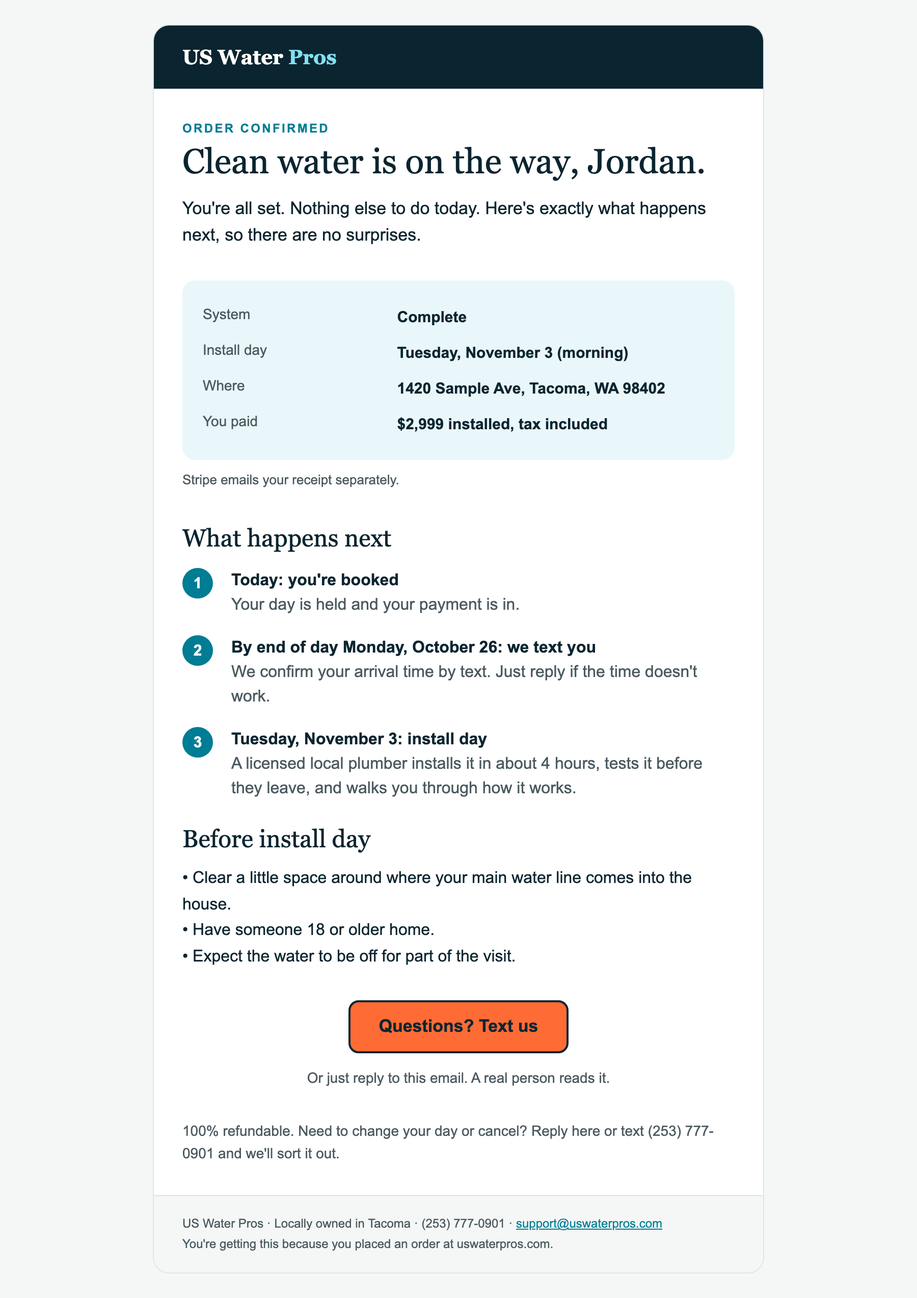
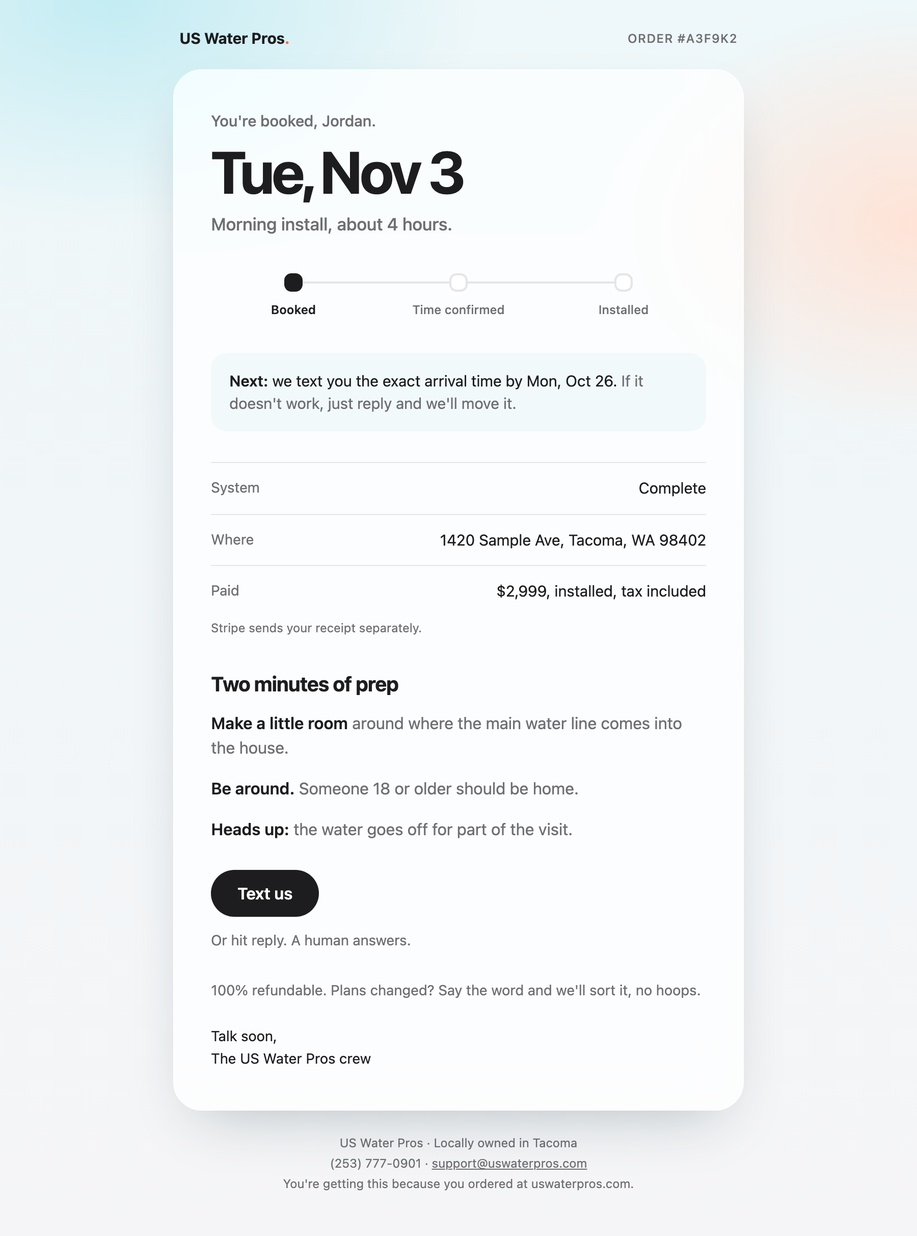
Email 1 redesign: Apple-style order status, big install date, frosted card, dark mode

diff --git a/lib/emails/orderConfirmed.ts b/lib/emails/orderConfirmed.ts
@@ -2,64 +2,88 @@ import { PHONE } from '../constants';
 import { formatUSD } from '../pricing';
 import { STORE } from '../store';
 
-// Email 1 of the customer series: sent the moment a payment clears. Warm, short, one job: say what happens next and what to do before install day.
-// Table layout with inline styles (email clients ignore most CSS). Light background only, so dark-mode clients do not invert it badly.
-// VERIFY before sending to customers: the prep list, "about 4 hours", and the support address.
-export type OrderConfirmedInput = { name: string; systemName: string; installDate: string; window: string; address: string; chargedCents: number; confirmBy: Date; supportEmail: string };
+// Email 1 of the customer series: sent the moment a payment clears.
+// Design: an Apple-style order status. The install day is the hero, a three-dot progress line, a frosted card for the details, one quiet button.
+// Email clients ignore most CSS, so: tables + inline styles, solid fallbacks under every gradient and translucent fill (Apple Mail and iOS show the glass,
+// others show clean white), and a dark-mode block for clients that support it. VERIFY before sending to customers: the prep list and "about 4 hours".
+export type OrderConfirmedInput = { name: string; orderRef: string; systemName: string; installDate: string; window: string; address: string; chargedCents: number; confirmBy: Date; supportEmail: string };
 
 const esc = (s: string) => s.replace(/[&<>"']/g, (c) => ({ '&': '&amp;', '<': '&lt;', '>': '&gt;', '"': '&quot;', "'": '&#39;' })[c]!);
 const TZ = 'America/Los_Angeles';
-const dayLong = (iso: string) => new Date(iso + 'T12:00:00Z').toLocaleDateString('en-US', { weekday: 'long', month: 'long', day: 'numeric', timeZone: 'UTC' });
-const deadlineDay = (d: Date) => d.toLocaleDateString('en-US', { weekday: 'long', month: 'long', day: 'numeric', timeZone: TZ });
+const fmtUTC = (iso: string, o: Intl.DateTimeFormatOptions) => new Date(iso + 'T12:00:00Z').toLocaleDateString('en-US', { ...o, timeZone: 'UTC' });
 export const firstName = (n: string) => { const f = n.trim().split(/\s+/)[0]; return f ? f.replace(/^./, (c) => c.toUpperCase()) : 'there'; };
+export const orderRef = (id: string) => id.replace(/[^0-9a-z]/gi, '').slice(-6).toUpperCase();
 
-const C = { ink: '#0b2530', teal: '#007c94', ice: '#eaf7fa', line: '#dbe6ea', muted: '#4b5a60', orange: '#ff6b35', bg: '#f4f7f6' };
+const F = `-apple-system,BlinkMacSystemFont,'SF Pro Display','SF Pro Text','Helvetica Neue',Helvetica,Arial,sans-serif`;
+const C = { ink: '#1d1d1f', gray: '#6e6e73', line: '#e5e5ea', orange: '#ff6b35' };
 
 export function orderConfirmed(i: OrderConfirmedInput) {
-  const hi = esc(firstName(i.name)), day = dayLong(i.installDate), by = deadlineDay(i.confirmBy);
-  const paid = formatUSD(i.chargedCents / 100);
-  const pre = `Your install is booked for ${day}. Here's what happens next.`;
-  const step = (n: string, h: string, b: string) => `<tr><td valign="top" style="padding:0 14px 18px 0;width:34px"><div style="width:30px;height:30px;border-radius:15px;background:${C.teal};color:#fff;font:700 15px/30px Arial,sans-serif;text-align:center">${n}</div></td><td valign="top" style="padding:0 0 18px 0;font:16px/1.5 Arial,sans-serif;color:${C.ink}"><b>${h}</b><br><span style="color:${C.muted}">${b}</span></td></tr>`;
-  const row = (k: string, v: string) => `<tr><td style="padding:7px 0;font:14px Arial,sans-serif;color:${C.muted};width:38%" valign="top">${k}</td><td style="padding:7px 0;font:15px/1.4 Arial,sans-serif;color:${C.ink}" valign="top"><b>${v}</b></td></tr>`;
-  const html = `<!doctype html><html lang="en"><head><meta charset="utf-8"><meta name="viewport" content="width=device-width,initial-scale=1"><meta name="color-scheme" content="light"><title>You're in. Here's what happens next.</title></head>
-<body style="margin:0;padding:0;background:${C.bg}">
-<div style="display:none;max-height:0;overflow:hidden;opacity:0;color:${C.bg}">${esc(pre)}&#8199;&zwnj;&#8199;&zwnj;&#8199;&zwnj;</div>
-<table role="presentation" width="100%" cellpadding="0" cellspacing="0" style="background:${C.bg}"><tr><td align="center" style="padding:24px 12px">
-<table role="presentation" width="600" cellpadding="0" cellspacing="0" style="width:100%;max-width:600px;background:#fff;border-radius:16px;overflow:hidden;border:1px solid ${C.line}">
-<tr><td style="background:${C.ink};padding:20px 28px;font:700 20px Georgia,serif;color:#fff">US Water <span style="color:#7fe0f2">Pros</span></td></tr>
-<tr><td style="padding:32px 28px 8px">
-<p style="margin:0 0 6px;font:700 12px Arial,sans-serif;letter-spacing:.14em;text-transform:uppercase;color:${C.teal}">Order confirmed</p>
-<h1 style="margin:0 0 14px;font:400 34px/1.15 Georgia,serif;color:${C.ink}">Clean water is on the way, ${hi}.</h1>
-<p style="margin:0 0 22px;font:17px/1.55 Arial,sans-serif;color:${C.ink}">You're all set. Nothing else to do today. Here's exactly what happens next, so there are no surprises.</p>
-</td></tr>
-<tr><td style="padding:0 28px 8px"><table role="presentation" width="100%" cellpadding="0" cellspacing="0" style="background:${C.ice};border-radius:12px"><tr><td style="padding:18px 20px">
-<table role="presentation" width="100%" cellpadding="0" cellspacing="0">${row('System', esc(i.systemName))}${row('Install day', `${esc(day)} (${esc(i.window.toLowerCase())})`)}${row('Where', esc(i.address))}${row('You paid', paid + ' installed, tax included')}</table>
-</td></tr></table>
-<p style="margin:10px 0 0;font:13px/1.5 Arial,sans-serif;color:${C.muted}">Stripe emails your receipt separately.</p></td></tr>
-<tr><td style="padding:26px 28px 0"><h2 style="margin:0 0 16px;font:400 24px Georgia,serif;color:${C.ink}">What happens next</h2>
+  const name = firstName(i.name), ref = esc(i.orderRef);
+  const dayShort = fmtUTC(i.installDate, { weekday: 'short', month: 'short', day: 'numeric' }), dayLong = fmtUTC(i.installDate, { weekday: 'long', month: 'long', day: 'numeric' });
+  const by = i.confirmBy.toLocaleDateString('en-US', { weekday: 'long', month: 'long', day: 'numeric', timeZone: TZ });
+  const byShort = i.confirmBy.toLocaleDateString('en-US', { weekday: 'short', month: 'short', day: 'numeric', timeZone: TZ });
+  const paid = formatUSD(i.chargedCents / 100), win = i.window.toLowerCase();
+  const subject = `You're booked for ${dayShort}`;
+  const pre = `Nothing left to do today. Here's what happens next.`;
+
+  const seg = (cls: string, color: string, show: boolean) => `<td width="50%" valign="middle" style="padding:0">${show ? `<div class="${cls}" style="height:2px;line-height:2px;font-size:0;background:${color}">&nbsp;</div>` : ''}</td>`;
+  const dot = (on: boolean, label: string, first = false, last = false) => `<td align="center" width="33%" style="padding:0">
+<table role="presentation" width="100%" cellpadding="0" cellspacing="0"><tr>
+${seg(on ? 'ln-on' : 'ln', on ? C.ink : C.line, !first)}
+<td style="width:14px;padding:0" align="center"><div class="${on ? 'dot-on' : 'dot'}" style="width:14px;height:14px;border-radius:7px;background:${on ? C.ink : '#fff'};border:2px solid ${on ? C.ink : C.line};font-size:0;line-height:0">&nbsp;</div></td>
+${seg('ln', C.line, !last)}</tr></table>
+<div class="${on ? 't' : 'g'}" style="margin-top:10px;font:${on ? 600 : 500} 12px/1.3 ${F};color:${on ? C.ink : C.gray}">${label}</div></td>`;
+  const row = (k: string, v: string, last = false) => `<tr><td class="hair" style="padding:14px 0;${last ? '' : `border-bottom:1px solid ${C.line};`}font:14px/1.4 ${F};color:${C.gray};width:34%" valign="top"><span class="g">${k}</span></td><td class="hair" style="padding:14px 0;${last ? '' : `border-bottom:1px solid ${C.line};`}font:15px/1.45 ${F};color:${C.ink};text-align:right" valign="top"><span class="t">${v}</span></td></tr>`;
+  const todo = (h: string, b: string) => `<tr><td style="padding:0 0 16px 0;font:16px/1.5 ${F};color:${C.ink}"><b class="t" style="font-weight:600">${h}</b> <span class="g" style="color:${C.gray}">${b}</span></td></tr>`;
+
+  const html = `<!doctype html><html lang="en"><head><meta charset="utf-8"><meta name="viewport" content="width=device-width,initial-scale=1"><meta name="color-scheme" content="light dark"><meta name="supported-color-schemes" content="light dark"><title>${esc(subject)}</title>
+<style>
+@media (prefers-color-scheme: dark){
+  .page{background:#000 !important;background-image:none !important}
+  .glass{background:#1c1c1e !important;border-color:#2c2c2e !important;box-shadow:none !important}
+  .t{color:#f5f5f7 !important} .g{color:#98989f !important}
+  .hair{border-color:#2c2c2e !important} .ln{background:#3a3a3c !important} .ln-on{background:#f5f5f7 !important}
+  .dot{background:#1c1c1e !important;border-color:#3a3a3c !important} .dot-on{background:#f5f5f7 !important;border-color:#f5f5f7 !important}
+  .btn{background:#f5f5f7 !important;color:#1d1d1f !important} .chip{background:#2c2c2e !important}
+}
+@media (max-width:480px){ .pad{padding-left:22px !important;padding-right:22px !important} .big{font-size:48px !important} }
+</style></head>
+<body style="margin:0;padding:0;background:#f5f5f7">
+<div style="display:none;max-height:0;overflow:hidden;opacity:0;color:#f5f5f7">${esc(pre)}&#8199;&zwnj;&#8199;&zwnj;&#8199;&zwnj;&#8199;&zwnj;</div>
+<table role="presentation" class="page" width="100%" cellpadding="0" cellspacing="0" bgcolor="#eef7f9" style="background:#eef7f9;background-image:radial-gradient(520px 320px at 12% 0%,#c3ecf3 0%,rgba(195,236,243,0) 70%),radial-gradient(420px 300px at 100% 18%,#ffe3d6 0%,rgba(255,227,214,0) 70%),linear-gradient(#eef7f9,#f5f5f7)"><tr><td align="center" style="padding:28px 14px 40px">
+<table role="presentation" width="560" cellpadding="0" cellspacing="0" style="width:100%;max-width:560px">
+<tr><td class="pad" style="padding:0 6px 22px"><table role="presentation" width="100%" cellpadding="0" cellspacing="0"><tr>
+<td style="font:700 15px ${F};letter-spacing:-.01em;color:${C.ink}"><span class="t">US Water Pros</span><span style="color:${C.orange}">.</span></td>
+<td align="right" style="font:500 12px ${F};letter-spacing:.06em;color:${C.gray}"><span class="g">ORDER #${ref}</span></td></tr></table></td></tr>
+
+<tr><td class="glass" bgcolor="#ffffff" style="background:#ffffff;background:rgba(255,255,255,.78);-webkit-backdrop-filter:saturate(180%) blur(24px);backdrop-filter:saturate(180%) blur(24px);border:1px solid #ffffff;border-radius:28px;box-shadow:0 24px 60px -24px rgba(11,37,48,.28)">
 <table role="presentation" width="100%" cellpadding="0" cellspacing="0">
-${step('1', 'Today: you\'re booked', 'Your day is held and your payment is in.')}
-${step('2', `By end of day ${esc(by)}: we text you`, 'We confirm your arrival time by text. Just reply if the time doesn\'t work.')}
-${step('3', `${esc(day)}: install day`, 'A licensed local plumber installs it in about 4 hours, tests it before they leave, and walks you through how it works.')}
+<tr><td class="pad" style="padding:40px 36px 6px">
+<div class="g" style="font:500 15px/1.3 ${F};color:${C.gray}">You're booked, ${esc(name)}.</div>
+<div class="big t" style="margin:10px 0 0;font:700 58px/1 ${F};letter-spacing:-.045em;color:${C.ink}">${esc(dayShort)}</div>
+<div class="g" style="margin:12px 0 0;font:500 17px/1.4 ${F};color:${C.gray}">${esc(win.charAt(0).toUpperCase() + win.slice(1))} install, about 4 hours.</div>
+</td></tr>
+<tr><td class="pad" style="padding:30px 36px 8px"><table role="presentation" width="100%" cellpadding="0" cellspacing="0"><tr>${dot(true, 'Booked', true)}${dot(false, 'Time confirmed')}${dot(false, 'Installed', false, true)}</tr></table></td></tr>
+<tr><td class="pad" style="padding:26px 36px 0"><table role="presentation" width="100%" cellpadding="0" cellspacing="0" class="chip" bgcolor="#f2f9fb" style="background:#f2f9fb;border-radius:16px"><tr><td style="padding:16px 18px;font:15px/1.5 ${F};color:${C.ink}"><b class="t" style="font-weight:600">Next:</b> <span class="t">we text you the exact arrival time by ${esc(byShort)}.</span> <span class="g" style="color:${C.gray}">If it doesn't work, just reply and we'll move it.</span></td></tr></table></td></tr>
+<tr><td class="pad" style="padding:30px 36px 0"><table role="presentation" width="100%" cellpadding="0" cellspacing="0" class="hair" style="border-top:1px solid ${C.line}">${row('System', esc(i.systemName))}${row('Where', esc(i.address))}${row('Paid', `${paid}, installed, tax included`, true)}</table>
+<div class="g" style="padding:2px 0 0;font:12px/1.5 ${F};color:${C.gray}">Stripe sends your receipt separately.</div></td></tr>
+<tr><td class="pad" style="padding:34px 36px 0"><div class="t" style="margin:0 0 14px;font:700 20px/1.2 ${F};letter-spacing:-.02em;color:${C.ink}">Two minutes of prep</div>
+<table role="presentation" width="100%" cellpadding="0" cellspacing="0">${todo('Make a little room', 'around where the main water line comes into the house.')}${todo('Be around.', 'Someone 18 or older should be home.')}${todo('Heads up:', 'the water goes off for part of the visit.')}</table></td></tr>
+<tr><td class="pad" align="left" style="padding:12px 36px 0"><a class="btn" href="sms:+12537770901" style="display:inline-block;background:${C.ink};color:#ffffff;font:600 16px ${F};text-decoration:none;padding:14px 26px;border-radius:980px">Text us</a>
+<div class="g" style="margin:14px 0 0;font:14px ${F};color:${C.gray}">Or hit reply. A human answers.</div></td></tr>
+<tr><td class="pad" style="padding:30px 36px 38px"><div class="g" style="font:14px/1.6 ${F};color:${C.gray}">${esc(STORE.refund)} Plans changed? Say the word and we'll sort it, no hoops.<br><br><span class="t" style="color:${C.ink}">Talk soon,<br>The US Water Pros crew</span></div></td></tr>
 </table></td></tr>
-<tr><td style="padding:6px 28px 0"><h2 style="margin:0 0 12px;font:400 24px Georgia,serif;color:${C.ink}">Before install day</h2>
-<p style="margin:0;font:16px/1.6 Arial,sans-serif;color:${C.ink}">&bull; Clear a little space around where your main water line comes into the house.<br>&bull; Have someone 18 or older home.<br>&bull; Expect the water to be off for part of the visit.</p></td></tr>
-<tr><td align="center" style="padding:30px 28px 8px"><a href="sms:+12537770901" style="display:inline-block;background:${C.orange};color:${C.ink};font:700 17px Arial,sans-serif;text-decoration:none;padding:14px 28px;border-radius:10px;border:2px solid ${C.ink}">Questions? Text us</a>
-<p style="margin:14px 0 0;font:14px/1.5 Arial,sans-serif;color:${C.muted}">Or just reply to this email. A real person reads it.</p></td></tr>
-<tr><td style="padding:22px 28px 30px"><p style="margin:0;font:14px/1.6 Arial,sans-serif;color:${C.muted}">${esc(STORE.refund)} Need to change your day or cancel? Reply here or text ${esc(PHONE)} and we'll sort it out.</p></td></tr>
-<tr><td style="background:${C.bg};padding:18px 28px;border-top:1px solid ${C.line};font:12px/1.6 Arial,sans-serif;color:${C.muted}">US Water Pros &middot; ${esc(STORE.local)} &middot; ${esc(PHONE)} &middot; <a href="mailto:${esc(i.supportEmail)}" style="color:${C.teal}">${esc(i.supportEmail)}</a><br>You're getting this because you placed an order at uswaterpros.com.</td></tr>
+
+<tr><td class="pad" style="padding:22px 12px 0;font:12px/1.7 ${F};color:${C.gray};text-align:center"><span class="g">US Water Pros &middot; ${esc(STORE.local)}<br>${esc(PHONE)} &middot; <a href="mailto:${esc(i.supportEmail)}" style="color:${C.gray}">${esc(i.supportEmail)}</a><br>You're getting this because you ordered at uswaterpros.com.</span></td></tr>
 </table></td></tr></table></body></html>`;
+
   const text = [
-    `Clean water is on the way, ${firstName(i.name)}.`, '',
-    `You're all set. Nothing else to do today. Stripe emails your receipt separately.`, '',
-    `System: ${i.systemName}`, `Install day: ${day} (${i.window.toLowerCase()})`, `Where: ${i.address}`, `You paid: ${paid} installed, tax included`, '',
-    'WHAT HAPPENS NEXT',
-    `1. Today: you're booked. Your day is held and your payment is in.`,
-    `2. By end of day ${by}: we text you to confirm your arrival time. Reply if it doesn't work.`,
-    `3. ${day}: a licensed local plumber installs it in about 4 hours, tests it, and walks you through it.`, '',
-    'BEFORE INSTALL DAY', '- Clear a little space around where your main water line comes into the house.', '- Have someone 18 or older home.', '- Expect the water to be off for part of the visit.', '',
-    `${STORE.refund} Need to change your day or cancel? Reply to this email or text ${PHONE}.`, '',
-    `US Water Pros, ${STORE.local}. ${i.supportEmail}`,
+    `You're booked, ${name}.`, '', `${dayLong} · ${win} install, about 4 hours.`, '',
+    `NEXT: we text you the exact arrival time by end of day ${by}. If it doesn't work, just reply and we'll move it.`, '',
+    `Order #${i.orderRef}`, `System: ${i.systemName}`, `Where: ${i.address}`, `Paid: ${paid}, installed, tax included (Stripe sends your receipt separately)`, '',
+    'TWO MINUTES OF PREP', '- Make a little room around where the main water line comes into the house.', '- Be around. Someone 18 or older should be home.', '- Heads up: the water goes off for part of the visit.', '',
+    `Questions? Text ${PHONE} or just reply. A human answers.`, `${STORE.refund} Plans changed? Say the word and we'll sort it.`, '',
+    'Talk soon,', 'The US Water Pros crew', '', `${STORE.local} · ${i.supportEmail}`,
   ].join('\n');
-  return { subject: "You're in. Here's what happens next.", html, text };
+  return { subject, html, text };
 }

diff --git a/docs/email-previews/1-order-confirmed.html b/docs/email-previews/1-order-confirmed.html
@@ -1,28 +1,55 @@
-<!doctype html><html lang="en"><head><meta charset="utf-8"><meta name="viewport" content="width=device-width,initial-scale=1"><meta name="color-scheme" content="light"><title>You're in. Here's what happens next.</title></head>
-<body style="margin:0;padding:0;background:#f4f7f6">
-<div style="display:none;max-height:0;overflow:hidden;opacity:0;color:#f4f7f6">Your install is booked for Tuesday, November 3. Here&#39;s what happens next.&#8199;&zwnj;&#8199;&zwnj;&#8199;&zwnj;</div>
-<table role="presentation" width="100%" cellpadding="0" cellspacing="0" style="background:#f4f7f6"><tr><td align="center" style="padding:24px 12px">
-<table role="presentation" width="600" cellpadding="0" cellspacing="0" style="width:100%;max-width:600px;background:#fff;border-radius:16px;overflow:hidden;border:1px solid #dbe6ea">
-<tr><td style="background:#0b2530;padding:20px 28px;font:700 20px Georgia,serif;color:#fff">US Water <span style="color:#7fe0f2">Pros</span></td></tr>
-<tr><td style="padding:32px 28px 8px">
-<p style="margin:0 0 6px;font:700 12px Arial,sans-serif;letter-spacing:.14em;text-transform:uppercase;color:#007c94">Order confirmed</p>
-<h1 style="margin:0 0 14px;font:400 34px/1.15 Georgia,serif;color:#0b2530">Clean water is on the way, Jordan.</h1>
-<p style="margin:0 0 22px;font:17px/1.55 Arial,sans-serif;color:#0b2530">You're all set. Nothing else to do today. Here's exactly what happens next, so there are no surprises.</p>
-</td></tr>
-<tr><td style="padding:0 28px 8px"><table role="presentation" width="100%" cellpadding="0" cellspacing="0" style="background:#eaf7fa;border-radius:12px"><tr><td style="padding:18px 20px">
-<table role="presentation" width="100%" cellpadding="0" cellspacing="0"><tr><td style="padding:7px 0;font:14px Arial,sans-serif;color:#4b5a60;width:38%" valign="top">System</td><td style="padding:7px 0;font:15px/1.4 Arial,sans-serif;color:#0b2530" valign="top"><b>Complete</b></td></tr><tr><td style="padding:7px 0;font:14px Arial,sans-serif;color:#4b5a60;width:38%" valign="top">Install day</td><td style="padding:7px 0;font:15px/1.4 Arial,sans-serif;color:#0b2530" valign="top"><b>Tuesday, November 3 (morning)</b></td></tr><tr><td style="padding:7px 0;font:14px Arial,sans-serif;color:#4b5a60;width:38%" valign="top">Where</td><td style="padding:7px 0;font:15px/1.4 Arial,sans-serif;color:#0b2530" valign="top"><b>1420 Sample Ave, Tacoma, WA 98402</b></td></tr><tr><td style="padding:7px 0;font:14px Arial,sans-serif;color:#4b5a60;width:38%" valign="top">You paid</td><td style="padding:7px 0;font:15px/1.4 Arial,sans-serif;color:#0b2530" valign="top"><b>$2,999 installed, tax included</b></td></tr></table>
-</td></tr></table>
-<p style="margin:10px 0 0;font:13px/1.5 Arial,sans-serif;color:#4b5a60">Stripe emails your receipt separately.</p></td></tr>
-<tr><td style="padding:26px 28px 0"><h2 style="margin:0 0 16px;font:400 24px Georgia,serif;color:#0b2530">What happens next</h2>
+<!doctype html><html lang="en"><head><meta charset="utf-8"><meta name="viewport" content="width=device-width,initial-scale=1"><meta name="color-scheme" content="light dark"><meta name="supported-color-schemes" content="light dark"><title>You&#39;re booked for Tue, Nov 3</title>
+<style>
+@media (prefers-color-scheme: dark){
+  .page{background:#000 !important;background-image:none !important}
+  .glass{background:#1c1c1e !important;border-color:#2c2c2e !important;box-shadow:none !important}
+  .t{color:#f5f5f7 !important} .g{color:#98989f !important}
+  .hair{border-color:#2c2c2e !important} .ln{background:#3a3a3c !important} .ln-on{background:#f5f5f7 !important}
+  .dot{background:#1c1c1e !important;border-color:#3a3a3c !important} .dot-on{background:#f5f5f7 !important;border-color:#f5f5f7 !important}
+  .btn{background:#f5f5f7 !important;color:#1d1d1f !important} .chip{background:#2c2c2e !important}
+}
+@media (max-width:480px){ .pad{padding-left:22px !important;padding-right:22px !important} .big{font-size:48px !important} }
+</style></head>
+<body style="margin:0;padding:0;background:#f5f5f7">
+<div style="display:none;max-height:0;overflow:hidden;opacity:0;color:#f5f5f7">Nothing left to do today. Here&#39;s what happens next.&#8199;&zwnj;&#8199;&zwnj;&#8199;&zwnj;&#8199;&zwnj;</div>
+<table role="presentation" class="page" width="100%" cellpadding="0" cellspacing="0" bgcolor="#eef7f9" style="background:#eef7f9;background-image:radial-gradient(520px 320px at 12% 0%,#c3ecf3 0%,rgba(195,236,243,0) 70%),radial-gradient(420px 300px at 100% 18%,#ffe3d6 0%,rgba(255,227,214,0) 70%),linear-gradient(#eef7f9,#f5f5f7)"><tr><td align="center" style="padding:28px 14px 40px">
+<table role="presentation" width="560" cellpadding="0" cellspacing="0" style="width:100%;max-width:560px">
+<tr><td class="pad" style="padding:0 6px 22px"><table role="presentation" width="100%" cellpadding="0" cellspacing="0"><tr>
+<td style="font:700 15px -apple-system,BlinkMacSystemFont,'SF Pro Display','SF Pro Text','Helvetica Neue',Helvetica,Arial,sans-serif;letter-spacing:-.01em;color:#1d1d1f"><span class="t">US Water Pros</span><span style="color:#ff6b35">.</span></td>
+<td align="right" style="font:500 12px -apple-system,BlinkMacSystemFont,'SF Pro Display','SF Pro Text','Helvetica Neue',Helvetica,Arial,sans-serif;letter-spacing:.06em;color:#6e6e73"><span class="g">ORDER #A3F9K2</span></td></tr></table></td></tr>
+
+<tr><td class="glass" bgcolor="#ffffff" style="background:#ffffff;background:rgba(255,255,255,.78);-webkit-backdrop-filter:saturate(180%) blur(24px);backdrop-filter:saturate(180%) blur(24px);border:1px solid #ffffff;border-radius:28px;box-shadow:0 24px 60px -24px rgba(11,37,48,.28)">
 <table role="presentation" width="100%" cellpadding="0" cellspacing="0">
-<tr><td valign="top" style="padding:0 14px 18px 0;width:34px"><div style="width:30px;height:30px;border-radius:15px;background:#007c94;color:#fff;font:700 15px/30px Arial,sans-serif;text-align:center">1</div></td><td valign="top" style="padding:0 0 18px 0;font:16px/1.5 Arial,sans-serif;color:#0b2530"><b>Today: you're booked</b><br><span style="color:#4b5a60">Your day is held and your payment is in.</span></td></tr>
-<tr><td valign="top" style="padding:0 14px 18px 0;width:34px"><div style="width:30px;height:30px;border-radius:15px;background:#007c94;color:#fff;font:700 15px/30px Arial,sans-serif;text-align:center">2</div></td><td valign="top" style="padding:0 0 18px 0;font:16px/1.5 Arial,sans-serif;color:#0b2530"><b>By end of day Monday, October 26: we text you</b><br><span style="color:#4b5a60">We confirm your arrival time by text. Just reply if the time doesn't work.</span></td></tr>
-<tr><td valign="top" style="padding:0 14px 18px 0;width:34px"><div style="width:30px;height:30px;border-radius:15px;background:#007c94;color:#fff;font:700 15px/30px Arial,sans-serif;text-align:center">3</div></td><td valign="top" style="padding:0 0 18px 0;font:16px/1.5 Arial,sans-serif;color:#0b2530"><b>Tuesday, November 3: install day</b><br><span style="color:#4b5a60">A licensed local plumber installs it in about 4 hours, tests it before they leave, and walks you through how it works.</span></td></tr>
+<tr><td class="pad" style="padding:40px 36px 6px">
+<div class="g" style="font:500 15px/1.3 -apple-system,BlinkMacSystemFont,'SF Pro Display','SF Pro Text','Helvetica Neue',Helvetica,Arial,sans-serif;color:#6e6e73">You're booked, Jordan.</div>
+<div class="big t" style="margin:10px 0 0;font:700 58px/1 -apple-system,BlinkMacSystemFont,'SF Pro Display','SF Pro Text','Helvetica Neue',Helvetica,Arial,sans-serif;letter-spacing:-.045em;color:#1d1d1f">Tue, Nov 3</div>
+<div class="g" style="margin:12px 0 0;font:500 17px/1.4 -apple-system,BlinkMacSystemFont,'SF Pro Display','SF Pro Text','Helvetica Neue',Helvetica,Arial,sans-serif;color:#6e6e73">Morning install, about 4 hours.</div>
+</td></tr>
+<tr><td class="pad" style="padding:30px 36px 8px"><table role="presentation" width="100%" cellpadding="0" cellspacing="0"><tr><td align="center" width="33%" style="padding:0">
+<table role="presentation" width="100%" cellpadding="0" cellspacing="0"><tr>
+<td width="50%" valign="middle" style="padding:0"></td>
+<td style="width:14px;padding:0" align="center"><div class="dot-on" style="width:14px;height:14px;border-radius:7px;background:#1d1d1f;border:2px solid #1d1d1f;font-size:0;line-height:0">&nbsp;</div></td>
+<td width="50%" valign="middle" style="padding:0"><div class="ln" style="height:2px;line-height:2px;font-size:0;background:#e5e5ea">&nbsp;</div></td></tr></table>
+<div class="t" style="margin-top:10px;font:600 12px/1.3 -apple-system,BlinkMacSystemFont,'SF Pro Display','SF Pro Text','Helvetica Neue',Helvetica,Arial,sans-serif;color:#1d1d1f">Booked</div></td><td align="center" width="33%" style="padding:0">
+<table role="presentation" width="100%" cellpadding="0" cellspacing="0"><tr>
+<td width="50%" valign="middle" style="padding:0"><div class="ln" style="height:2px;line-height:2px;font-size:0;background:#e5e5ea">&nbsp;</div></td>
+<td style="width:14px;padding:0" align="center"><div class="dot" style="width:14px;height:14px;border-radius:7px;background:#fff;border:2px solid #e5e5ea;font-size:0;line-height:0">&nbsp;</div></td>
+<td width="50%" valign="middle" style="padding:0"><div class="ln" style="height:2px;line-height:2px;font-size:0;background:#e5e5ea">&nbsp;</div></td></tr></table>
+<div class="g" style="margin-top:10px;font:500 12px/1.3 -apple-system,BlinkMacSystemFont,'SF Pro Display','SF Pro Text','Helvetica Neue',Helvetica,Arial,sans-serif;color:#6e6e73">Time confirmed</div></td><td align="center" width="33%" style="padding:0">
+<table role="presentation" width="100%" cellpadding="0" cellspacing="0"><tr>
+<td width="50%" valign="middle" style="padding:0"><div class="ln" style="height:2px;line-height:2px;font-size:0;background:#e5e5ea">&nbsp;</div></td>
+<td style="width:14px;padding:0" align="center"><div class="dot" style="width:14px;height:14px;border-radius:7px;background:#fff;border:2px solid #e5e5ea;font-size:0;line-height:0">&nbsp;</div></td>
+<td width="50%" valign="middle" style="padding:0"></td></tr></table>
+<div class="g" style="margin-top:10px;font:500 12px/1.3 -apple-system,BlinkMacSystemFont,'SF Pro Display','SF Pro Text','Helvetica Neue',Helvetica,Arial,sans-serif;color:#6e6e73">Installed</div></td></tr></table></td></tr>
+<tr><td class="pad" style="padding:26px 36px 0"><table role="presentation" width="100%" cellpadding="0" cellspacing="0" class="chip" bgcolor="#f2f9fb" style="background:#f2f9fb;border-radius:16px"><tr><td style="padding:16px 18px;font:15px/1.5 -apple-system,BlinkMacSystemFont,'SF Pro Display','SF Pro Text','Helvetica Neue',Helvetica,Arial,sans-serif;color:#1d1d1f"><b class="t" style="font-weight:600">Next:</b> <span class="t">we text you the exact arrival time by Mon, Oct 26.</span> <span class="g" style="color:#6e6e73">If it doesn't work, just reply and we'll move it.</span></td></tr></table></td></tr>
+<tr><td class="pad" style="padding:30px 36px 0"><table role="presentation" width="100%" cellpadding="0" cellspacing="0" class="hair" style="border-top:1px solid #e5e5ea"><tr><td class="hair" style="padding:14px 0;border-bottom:1px solid #e5e5ea;font:14px/1.4 -apple-system,BlinkMacSystemFont,'SF Pro Display','SF Pro Text','Helvetica Neue',Helvetica,Arial,sans-serif;color:#6e6e73;width:34%" valign="top"><span class="g">System</span></td><td class="hair" style="padding:14px 0;border-bottom:1px solid #e5e5ea;font:15px/1.45 -apple-system,BlinkMacSystemFont,'SF Pro Display','SF Pro Text','Helvetica Neue',Helvetica,Arial,sans-serif;color:#1d1d1f;text-align:right" valign="top"><span class="t">Complete</span></td></tr><tr><td class="hair" style="padding:14px 0;border-bottom:1px solid #e5e5ea;font:14px/1.4 -apple-system,BlinkMacSystemFont,'SF Pro Display','SF Pro Text','Helvetica Neue',Helvetica,Arial,sans-serif;color:#6e6e73;width:34%" valign="top"><span class="g">Where</span></td><td class="hair" style="padding:14px 0;border-bottom:1px solid #e5e5ea;font:15px/1.45 -apple-system,BlinkMacSystemFont,'SF Pro Display','SF Pro Text','Helvetica Neue',Helvetica,Arial,sans-serif;color:#1d1d1f;text-align:right" valign="top"><span class="t">1420 Sample Ave, Tacoma, WA 98402</span></td></tr><tr><td class="hair" style="padding:14px 0;font:14px/1.4 -apple-system,BlinkMacSystemFont,'SF Pro Display','SF Pro Text','Helvetica Neue',Helvetica,Arial,sans-serif;color:#6e6e73;width:34%" valign="top"><span class="g">Paid</span></td><td class="hair" style="padding:14px 0;font:15px/1.45 -apple-system,BlinkMacSystemFont,'SF Pro Display','SF Pro Text','Helvetica Neue',Helvetica,Arial,sans-serif;color:#1d1d1f;text-align:right" valign="top"><span class="t">$2,999, installed, tax included</span></td></tr></table>
+<div class="g" style="padding:2px 0 0;font:12px/1.5 -apple-system,BlinkMacSystemFont,'SF Pro Display','SF Pro Text','Helvetica Neue',Helvetica,Arial,sans-serif;color:#6e6e73">Stripe sends your receipt separately.</div></td></tr>
+<tr><td class="pad" style="padding:34px 36px 0"><div class="t" style="margin:0 0 14px;font:700 20px/1.2 -apple-system,BlinkMacSystemFont,'SF Pro Display','SF Pro Text','Helvetica Neue',Helvetica,Arial,sans-serif;letter-spacing:-.02em;color:#1d1d1f">Two minutes of prep</div>
+<table role="presentation" width="100%" cellpadding="0" cellspacing="0"><tr><td style="padding:0 0 16px 0;font:16px/1.5 -apple-system,BlinkMacSystemFont,'SF Pro Display','SF Pro Text','Helvetica Neue',Helvetica,Arial,sans-serif;color:#1d1d1f"><b class="t" style="font-weight:600">Make a little room</b> <span class="g" style="color:#6e6e73">around where the main water line comes into the house.</span></td></tr><tr><td style="padding:0 0 16px 0;font:16px/1.5 -apple-system,BlinkMacSystemFont,'SF Pro Display','SF Pro Text','Helvetica Neue',Helvetica,Arial,sans-serif;color:#1d1d1f"><b class="t" style="font-weight:600">Be around.</b> <span class="g" style="color:#6e6e73">Someone 18 or older should be home.</span></td></tr><tr><td style="padding:0 0 16px 0;font:16px/1.5 -apple-system,BlinkMacSystemFont,'SF Pro Display','SF Pro Text','Helvetica Neue',Helvetica,Arial,sans-serif;color:#1d1d1f"><b class="t" style="font-weight:600">Heads up:</b> <span class="g" style="color:#6e6e73">the water goes off for part of the visit.</span></td></tr></table></td></tr>
+<tr><td class="pad" align="left" style="padding:12px 36px 0"><a class="btn" href="sms:+12537770901" style="display:inline-block;background:#1d1d1f;color:#ffffff;font:600 16px -apple-system,BlinkMacSystemFont,'SF Pro Display','SF Pro Text','Helvetica Neue',Helvetica,Arial,sans-serif;text-decoration:none;padding:14px 26px;border-radius:980px">Text us</a>
+<div class="g" style="margin:14px 0 0;font:14px -apple-system,BlinkMacSystemFont,'SF Pro Display','SF Pro Text','Helvetica Neue',Helvetica,Arial,sans-serif;color:#6e6e73">Or hit reply. A human answers.</div></td></tr>
+<tr><td class="pad" style="padding:30px 36px 38px"><div class="g" style="font:14px/1.6 -apple-system,BlinkMacSystemFont,'SF Pro Display','SF Pro Text','Helvetica Neue',Helvetica,Arial,sans-serif;color:#6e6e73">100% refundable. Plans changed? Say the word and we'll sort it, no hoops.<br><br><span class="t" style="color:#1d1d1f">Talk soon,<br>The US Water Pros crew</span></div></td></tr>
 </table></td></tr>
-<tr><td style="padding:6px 28px 0"><h2 style="margin:0 0 12px;font:400 24px Georgia,serif;color:#0b2530">Before install day</h2>
-<p style="margin:0;font:16px/1.6 Arial,sans-serif;color:#0b2530">&bull; Clear a little space around where your main water line comes into the house.<br>&bull; Have someone 18 or older home.<br>&bull; Expect the water to be off for part of the visit.</p></td></tr>
-<tr><td align="center" style="padding:30px 28px 8px"><a href="sms:+12537770901" style="display:inline-block;background:#ff6b35;color:#0b2530;font:700 17px Arial,sans-serif;text-decoration:none;padding:14px 28px;border-radius:10px;border:2px solid #0b2530">Questions? Text us</a>
-<p style="margin:14px 0 0;font:14px/1.5 Arial,sans-serif;color:#4b5a60">Or just reply to this email. A real person reads it.</p></td></tr>
-<tr><td style="padding:22px 28px 30px"><p style="margin:0;font:14px/1.6 Arial,sans-serif;color:#4b5a60">100% refundable. Need to change your day or cancel? Reply here or text (253) 777-0901 and we'll sort it out.</p></td></tr>
-<tr><td style="background:#f4f7f6;padding:18px 28px;border-top:1px solid #dbe6ea;font:12px/1.6 Arial,sans-serif;color:#4b5a60">US Water Pros &middot; Locally owned in Tacoma &middot; (253) 777-0901 &middot; <a href="mailto:support@uswaterpros.com" style="color:#007c94">support@uswaterpros.com</a><br>You're getting this because you placed an order at uswaterpros.com.</td></tr>
+
+<tr><td class="pad" style="padding:22px 12px 0;font:12px/1.7 -apple-system,BlinkMacSystemFont,'SF Pro Display','SF Pro Text','Helvetica Neue',Helvetica,Arial,sans-serif;color:#6e6e73;text-align:center"><span class="g">US Water Pros &middot; Locally owned in Tacoma<br>(253) 777-0901 &middot; <a href="mailto:support@uswaterpros.com" style="color:#6e6e73">support@uswaterpros.com</a><br>You're getting this because you ordered at uswaterpros.com.</span></td></tr>
 </table></td></tr></table></body></html>

diff --git a/lib/emails/orderConfirmed.test.ts b/lib/emails/orderConfirmed.test.ts
@@ -2,24 +2,24 @@ import { describe, expect, it } from 'vitest';
 import { firstName, orderConfirmed } from './orderConfirmed';
 import { confirmDeadline } from '../confirmBy';
 
-const base = { name: 'jordan rivera', systemName: 'Complete', installDate: '2026-11-03', window: 'Morning', address: '1 Main St, Tacoma, WA 98402', chargedCents: 299900, confirmBy: confirmDeadline(new Date('2026-10-23T20:36:39Z')), supportEmail: 'support@uswaterpros.com' };
+const base = { name: 'jordan rivera', orderRef: 'A3F9K2', systemName: 'Complete', installDate: '2026-11-03', window: 'Morning', address: '1 Main St, Tacoma, WA 98402', chargedCents: 299900, confirmBy: confirmDeadline(new Date('2026-10-23T20:36:39Z')), supportEmail: 'support@uswaterpros.com' };
 
 describe('order confirmed email', () => {
   it('greets by first name, names the day, the system and the real amount charged', () => {
     const m = orderConfirmed(base);
-    expect(m.html).toContain('Clean water is on the way, Jordan.');
-    expect(m.html).toContain('Tuesday, November 3'); expect(m.html).toContain('$2,999'); expect(m.html).toContain('Complete');
-    expect(m.text).toContain('Install day: Tuesday, November 3 (morning)');
+    expect(m.html).toContain("You're booked, Jordan.");
+    expect(m.html).toContain('Tue, Nov 3'); expect(m.html).toContain('$2,999'); expect(m.html).toContain('Complete'); expect(m.html).toContain('ORDER #A3F9K2');
+    expect(m.subject).toBe("You're booked for Tue, Nov 3"); expect(m.text).toContain('Tuesday, November 3 · morning install');
   });
-  it('promises the text by the end of the NEXT business day (Friday order -> Monday)', () => expect(orderConfirmed(base).html).toContain('Monday, October 26'));
-  it('shows a discounted charge, not the list price', () => expect(orderConfirmed({ ...base, chargedCents: 0 }).html).toContain('$0 installed'));
+  it('promises the text by the end of the NEXT business day (Friday order -> Monday)', () => expect(orderConfirmed(base).html).toContain('by Mon, Oct 26'));
+  it('shows a discounted charge, not the list price', () => expect(orderConfirmed({ ...base, chargedCents: 0 }).html).toContain('$0, installed'));
   it('escapes anything the customer typed', () => {
     const m = orderConfirmed({ ...base, name: '<script>x</script>', address: '"><img src=x>' });
     expect(m.html).not.toContain('<script>x'); expect(m.html).not.toContain('<img src=x>');
   });
   it('has a plain-text version, a preheader, and no fear language', () => {
     const m = orderConfirmed(base);
-    expect(m.text.length).toBeGreaterThan(200); expect(m.html).toContain('display:none'); expect(m.html + m.text).not.toMatch(/danger|toxic|unsafe|poison/i);
+    expect(m.text.length).toBeGreaterThan(200); expect(m.html).toContain('display:none'); expect(m.html).toContain('prefers-color-scheme: dark'); expect(m.html + m.text).not.toMatch(/danger|toxic|unsafe|poison/i);
   });
   it('falls back politely with no name', () => expect(firstName('  ')).toBe('there'));
 });

diff --git a/app/api/stripe-webhook/route.ts b/app/api/stripe-webhook/route.ts
@@ -4,7 +4,7 @@ import { tierById, formatUSD } from '@/lib/pricing';
 import { confirmDeadline } from '@/lib/confirmBy';
 import { sendAlert } from '@/lib/alerts';
 import { sendCustomerMail } from '@/lib/mail';
-import { orderConfirmed } from '@/lib/emails/orderConfirmed';
+import { orderConfirmed, orderRef } from '@/lib/emails/orderConfirmed';
 import { SUPPORT_EMAIL } from '@/lib/constants';
 import { verifyStripeSignature } from '@/lib/stripeSig';
 
@@ -34,7 +34,7 @@ export async function POST(req: NextRequest) {
   const od = data?.order_details ?? {};
   const to = String(s.customer_details?.email || data?.email || '');
   if (!alreadyPaid && to && od.date) {
-    await sendCustomerMail(to, orderConfirmed({ name: String(data?.name ?? ''), systemName: tier.name, installDate: String(od.date), window: String(od.window ?? ''), address: String(od.address ?? ''), chargedCents: s.amount_total ?? tier.price * 100, confirmBy: confirmDeadline(new Date(now)), supportEmail: SUPPORT_EMAIL })).catch(console.error);
+    await sendCustomerMail(to, orderConfirmed({ name: String(data?.name ?? ''), orderRef: orderRef(String(leadId)), systemName: tier.name, installDate: String(od.date), window: String(od.window ?? ''), address: String(od.address ?? ''), chargedCents: s.amount_total ?? tier.price * 100, confirmBy: confirmDeadline(new Date(now)), supportEmail: SUPPORT_EMAIL })).catch(console.error);
   }
   await sendAlert(`PAID: ${tier.name} ${formatUSD(charged)}${charged !== tier.price ? ` (list ${formatUSD(tier.price)})` : ''}`, `Install ${data?.order_details?.date ?? '?'}. Text the customer to confirm the time by ${confirmDeadline(new Date(now)).toLocaleString('en-US', { timeZone: 'America/Los_Angeles' })} Pacific, then mark it confirmed in the CRM.`).catch(console.error);
   return NextResponse.json({ ok: true });

diff --git a/scripts/email-preview.ts b/scripts/email-preview.ts
@@ -4,7 +4,7 @@ import { orderConfirmed } from '../lib/emails/orderConfirmed';
 import { confirmDeadline } from '../lib/confirmBy';
 
 const paidAt = new Date('2026-10-23T20:36:39Z'); // a Friday
-const m = orderConfirmed({ name: 'Jordan Rivera', systemName: 'Complete', installDate: '2026-11-03', window: 'Morning', address: '1420 Sample Ave, Tacoma, WA 98402', chargedCents: 299900, confirmBy: confirmDeadline(paidAt), supportEmail: 'support@uswaterpros.com' });
+const m = orderConfirmed({ name: 'Jordan Rivera', orderRef: 'A3F9K2', systemName: 'Complete', installDate: '2026-11-03', window: 'Morning', address: '1420 Sample Ave, Tacoma, WA 98402', chargedCents: 299900, confirmBy: confirmDeadline(paidAt), supportEmail: 'support@uswaterpros.com' });
 fs.writeFileSync('docs/email-previews/1-order-confirmed.html', m.html);
 fs.writeFileSync('docs/email-previews/1-order-confirmed.txt', `Subject: ${m.subject}\n\n${m.text}\n`);
 console.log('written');
